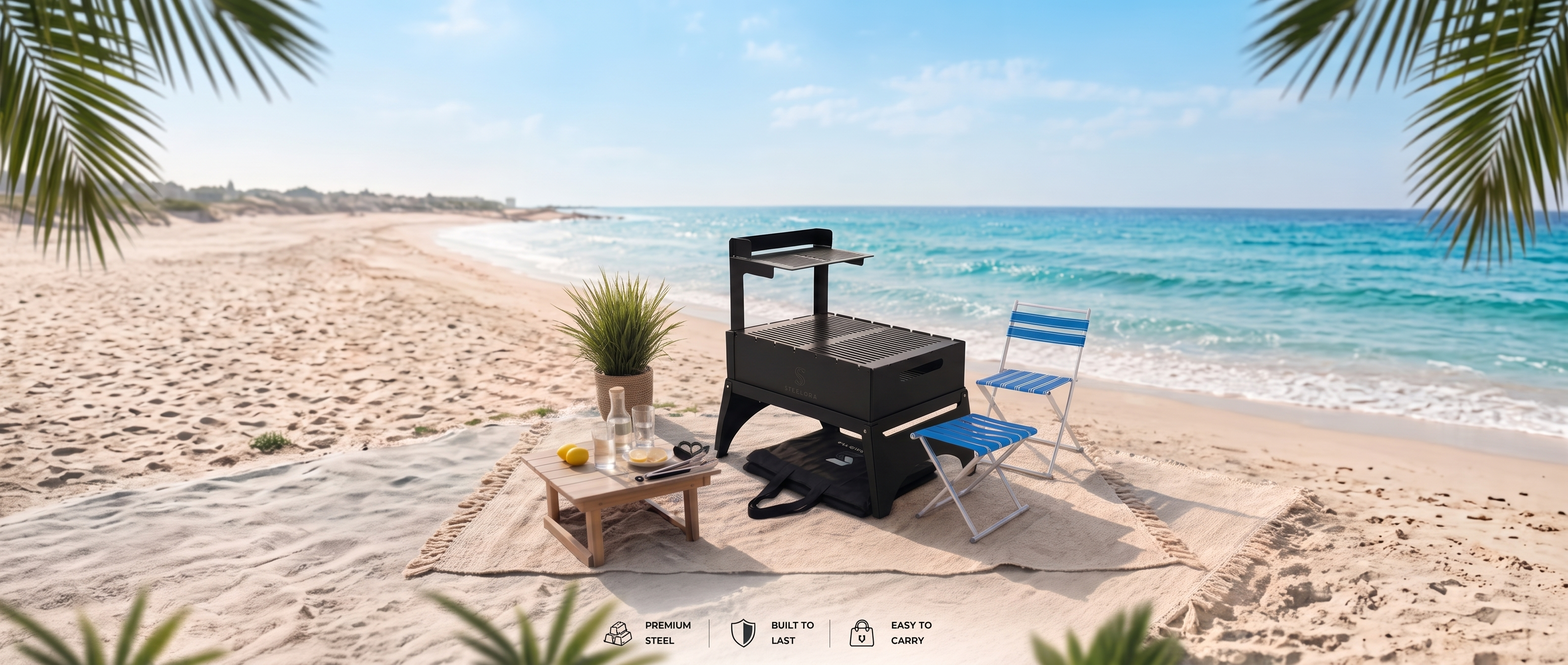
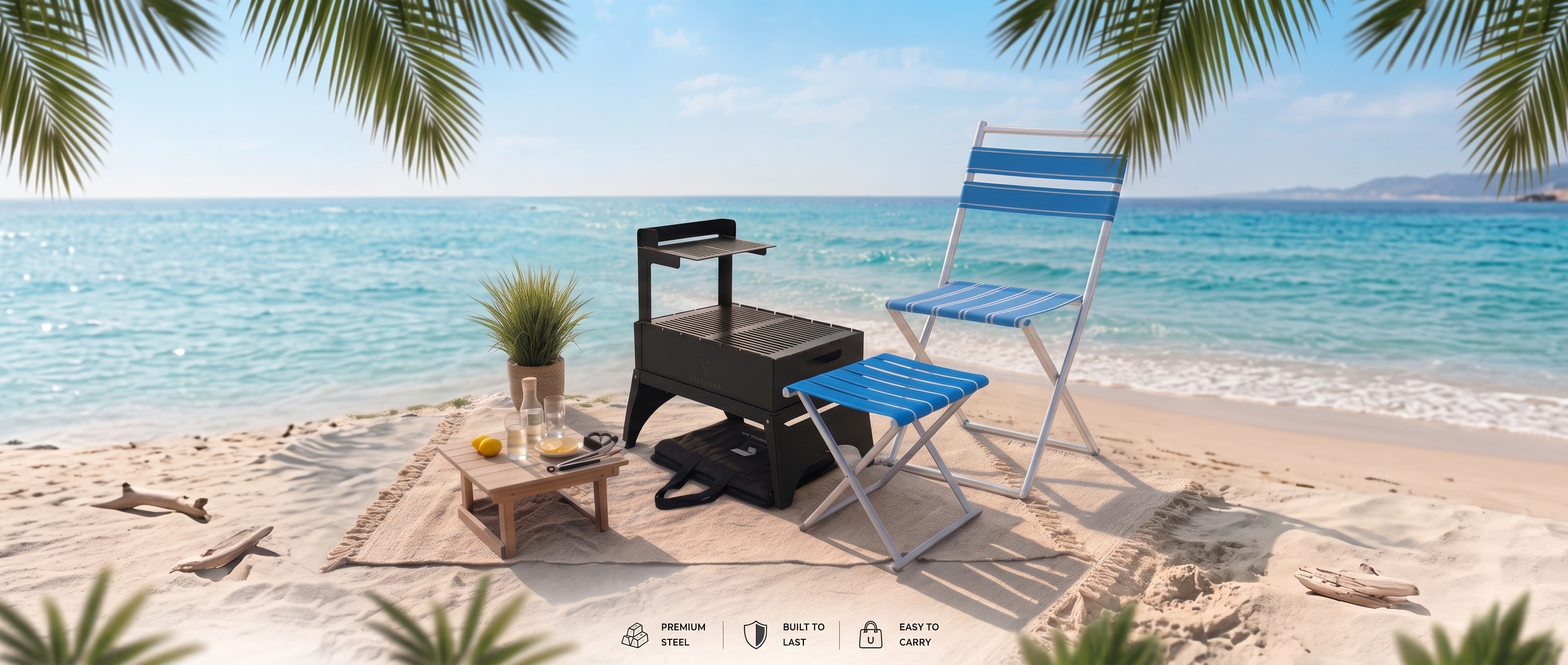
feat(design): update hero section background to hero-bg and bundle spotlight to pro-max

diff --git a/app/[locale]/page.tsx b/app/[locale]/page.tsx
@@ -53,7 +53,7 @@ export default async function HomePage({
         {/* Background Image with Crisp Clarity & Bottom Transition Shadow Only */}
         <div className="absolute inset-0 z-0 pointer-events-none select-none">
           <Image
-            src="/images/hero/hero-bg.png"
+            src="/hero-bg.jpg"
             alt="STEELORA Luxury Outdoor Gear"
             fill
             priority
@@ -127,7 +127,7 @@ export default async function HomePage({
                 {/* Bundle Imagery */}
                 <div className="lg:col-span-6 relative aspect-square rounded-2xl overflow-hidden bg-charcoal-950 border border-gold/30 shadow-2xl">
                   <Image
-                    src="/images/products/bundle-main.jpg"
+                    src="/pro-max.jpg"
                     alt="STEELORA Outdoor Luxury Set"
                     fill
                     priority

diff --git a/app/[locale]/about/page.tsx b/app/[locale]/about/page.tsx
@@ -94,7 +94,7 @@ export default function AboutPage({
 
           <div className="lg:col-span-6 relative aspect-[4/3] rounded-2xl overflow-hidden shadow-luxury border border-steel-gray/30">
             <Image
-              src="/images/products/bundle-main.jpg"
+              src="/pro-max.jpg"
               alt="STEELORA Gear in the Wild"
               fill
               className="object-cover"
